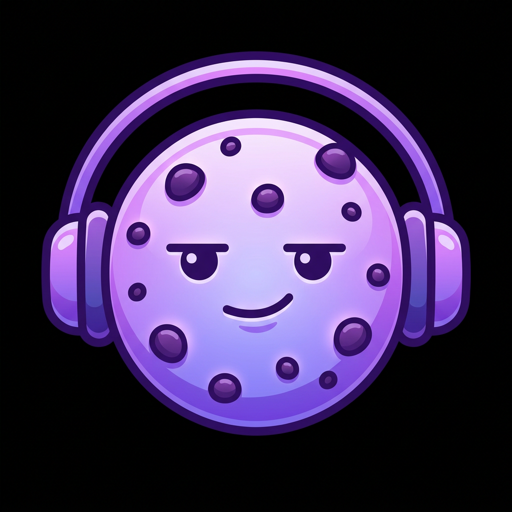
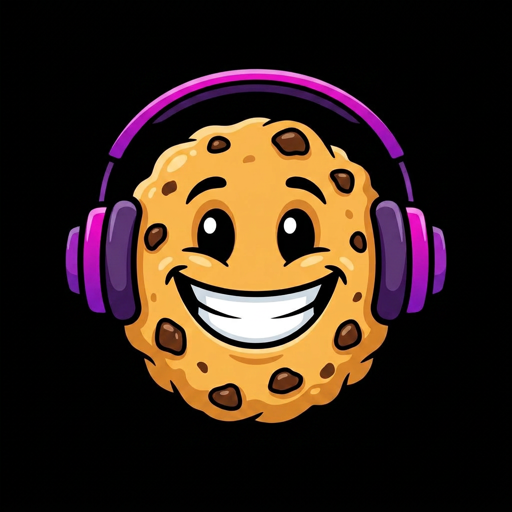
feat(music): 사이드바 로고를 세로 락업으로 · 캐릭터 마크 새로 그림
대표 지시(2026-08-29): "쿠키뮤직 캐릭터 로고 크게 해서 넣고 그 밑에
쿠키뮤직 글씨 넣어서 만들어 줘" → "이 느낌으로 다시 살려서 함박웃는
느낌으로" → "색은 이거로" → "보라 캐릭터 로고, 스튜디오가 아니라
뮤직에 넣고 크게".

- 사이드바 락업을 가로 → 세로(마크 위 / 워드마크 아래) 중앙 정렬
- 마크 80px. 사이드바 내부 폭의 36% 이고 COOKIEMUSIC 워드마크 실제
  폭과 맞물린다. 96px 는 워드마크보다 커져 머리만 커 보이고 64px 는
  "크게"에 못 미쳤다
- 한글 보조 줄은 뺐다. 세로로 쌓으면 3단이 되어 답답하고, 지시가
  "마크 크게 + 그 밑에 글씨"라 2단이 맞다
- 락업이 68px 높아져 최악 조건(어드민 + 플레이리스트 가득)에서 메뉴가
  44px 넘쳤다. 마크를 줄이는 대신 사이드바를 스크롤 가능하게 했다 —
  잘리는 것보다 낫고 일반 상태에선 시각적 변화가 없다
- 마크 교체: 쿠키뮤직 = 보라 쿠키 + 함박웃음, 스튜디오 = 갈색 쿠키 +
  같은 함박웃음. 대표가 "보라는 뮤직에만"이라 해 색으로 갈랐다

원형 크롭 안에 헤드밴드·이어컵·본체가 온전히 들어오는 것 확인.
1440 잘림 없음, 375 는 기존대로 사이드바 미노출. 스튜디오 헤더 무변경.

남은 것(대표 확인 대기): 새 마크는 보라인데 워드마크는 핑크 그라디언트
라 계열이 갈린다. 스튜디오 UI 강조색도 아직 보라다.

diff --git a/src/components/layout/PublicLayoutClient.tsx b/src/components/layout/PublicLayoutClient.tsx
@@ -230,23 +230,20 @@ export function PublicLayoutClient({
       
       {/* Shell: Side Navigation (Desktop Only) */}
       {/* 아래 패딩은 고정 플레이어(h-24) 높이만큼 비운다 — 안 그러면 사이드바 맨 아래가 가린다 */}
-      <aside className={`hidden md:flex flex-col pt-[24px] pb-[112px] px-[16px] h-[calc(100vh-40px)] w-64 border-r border-outline-variant/10 fixed left-0 top-10 z-50 justify-between ${
+      <aside className={`hidden md:flex flex-col pt-[24px] pb-[112px] px-[16px] h-[calc(100vh-40px)] w-64 border-r border-outline-variant/10 fixed left-0 top-10 z-50 justify-between overflow-y-auto custom-scrollbar ${
         activeTab === 'home' ? 'bg-surface' : 'bg-surface-container-low'
       }`}>
         <div className="flex flex-col gap-[48px]">
           <div className="flex justify-center">
-            {/* 마크 + 워드마크 락업 — 마크는 public/images/cookiemusic-mark.png */}
-            <Link href="/" className="select-none flex items-center gap-2">
+            {/* 마크 + 워드마크 락업 (세로) — 마크는 public/images/cookiemusic-mark.png */}
+            <Link href="/" className="select-none flex flex-col items-center gap-2">
               <img
                 src={withBase('/images/cookiemusic-mark.png')}
                 alt=""
                 aria-hidden="true"
-                className="h-9 w-9 shrink-0 rounded-full object-cover"
+                className="h-20 w-20 shrink-0 rounded-full object-cover"
               />
-              <span className="flex flex-col gap-0.5">
-                <span className="cm-wordmark text-[18px] font-black tracking-[-0.02em] leading-none">COOKIEMUSIC</span>
-                <span className="text-[9px] font-bold tracking-[0.28em] leading-none text-on-surface-variant">쿠키뮤직</span>
-              </span>
+              <span className="cm-wordmark text-[18px] font-black tracking-[-0.02em] leading-none">COOKIEMUSIC</span>
             </Link>
           </div>
 
